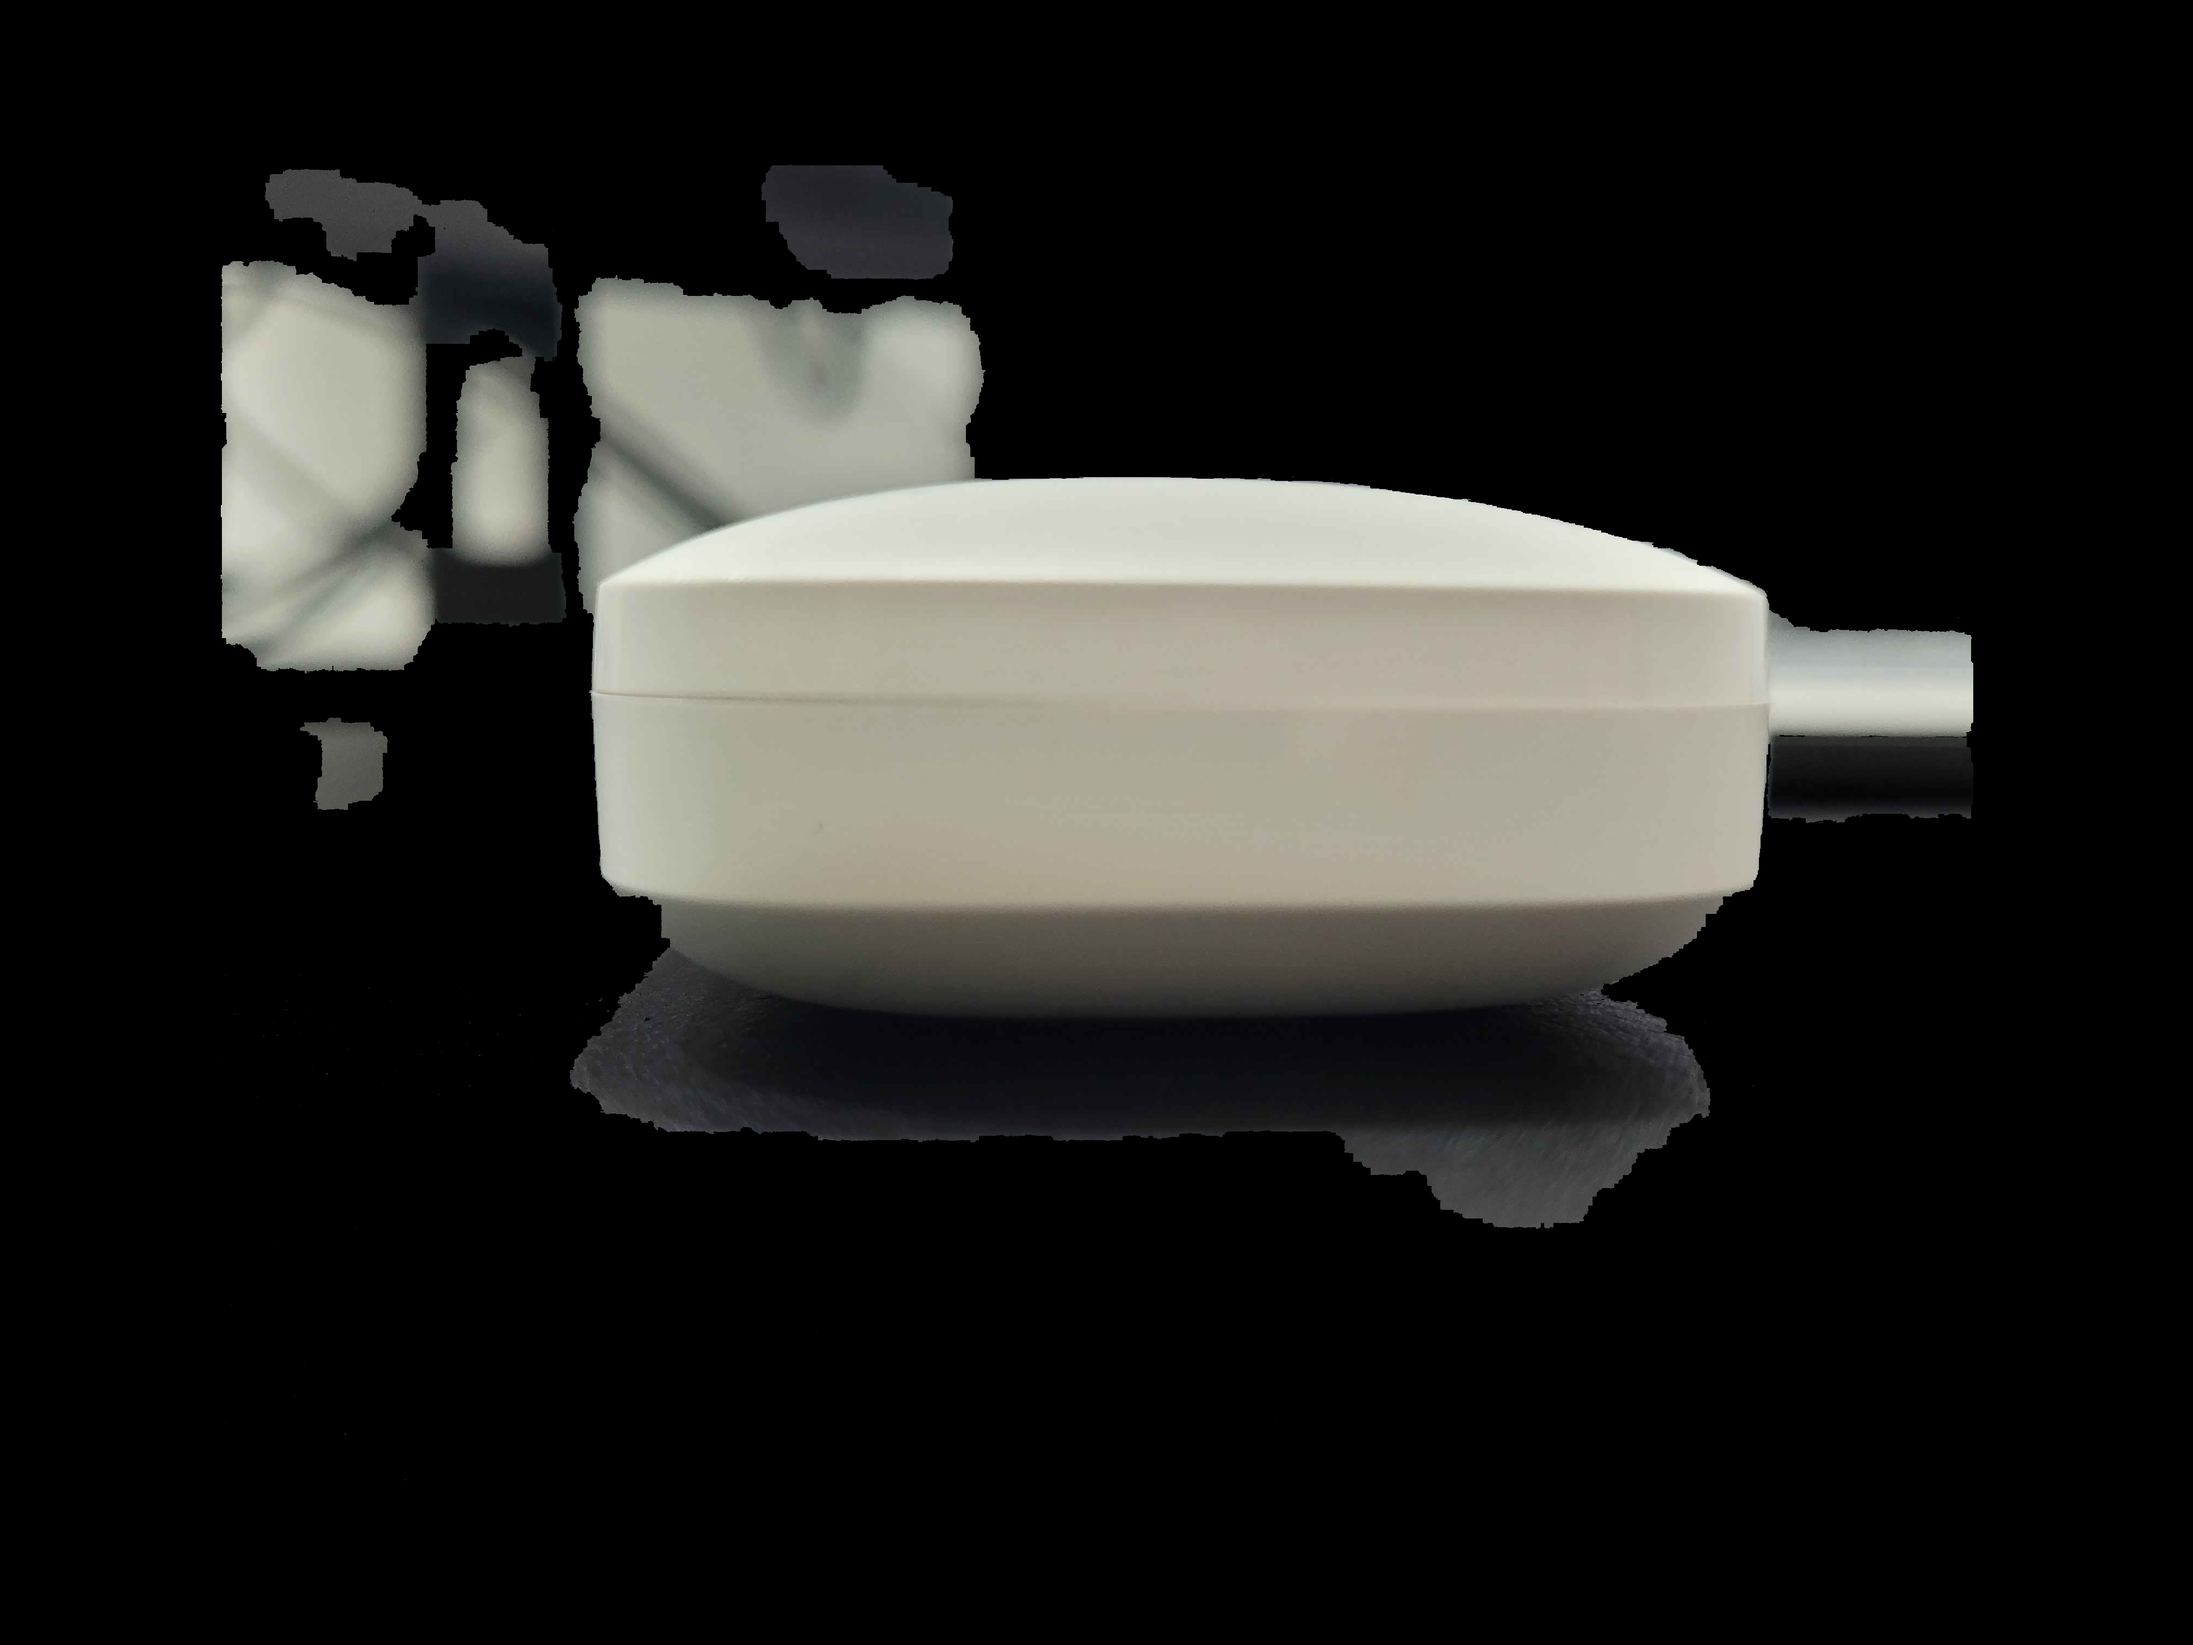
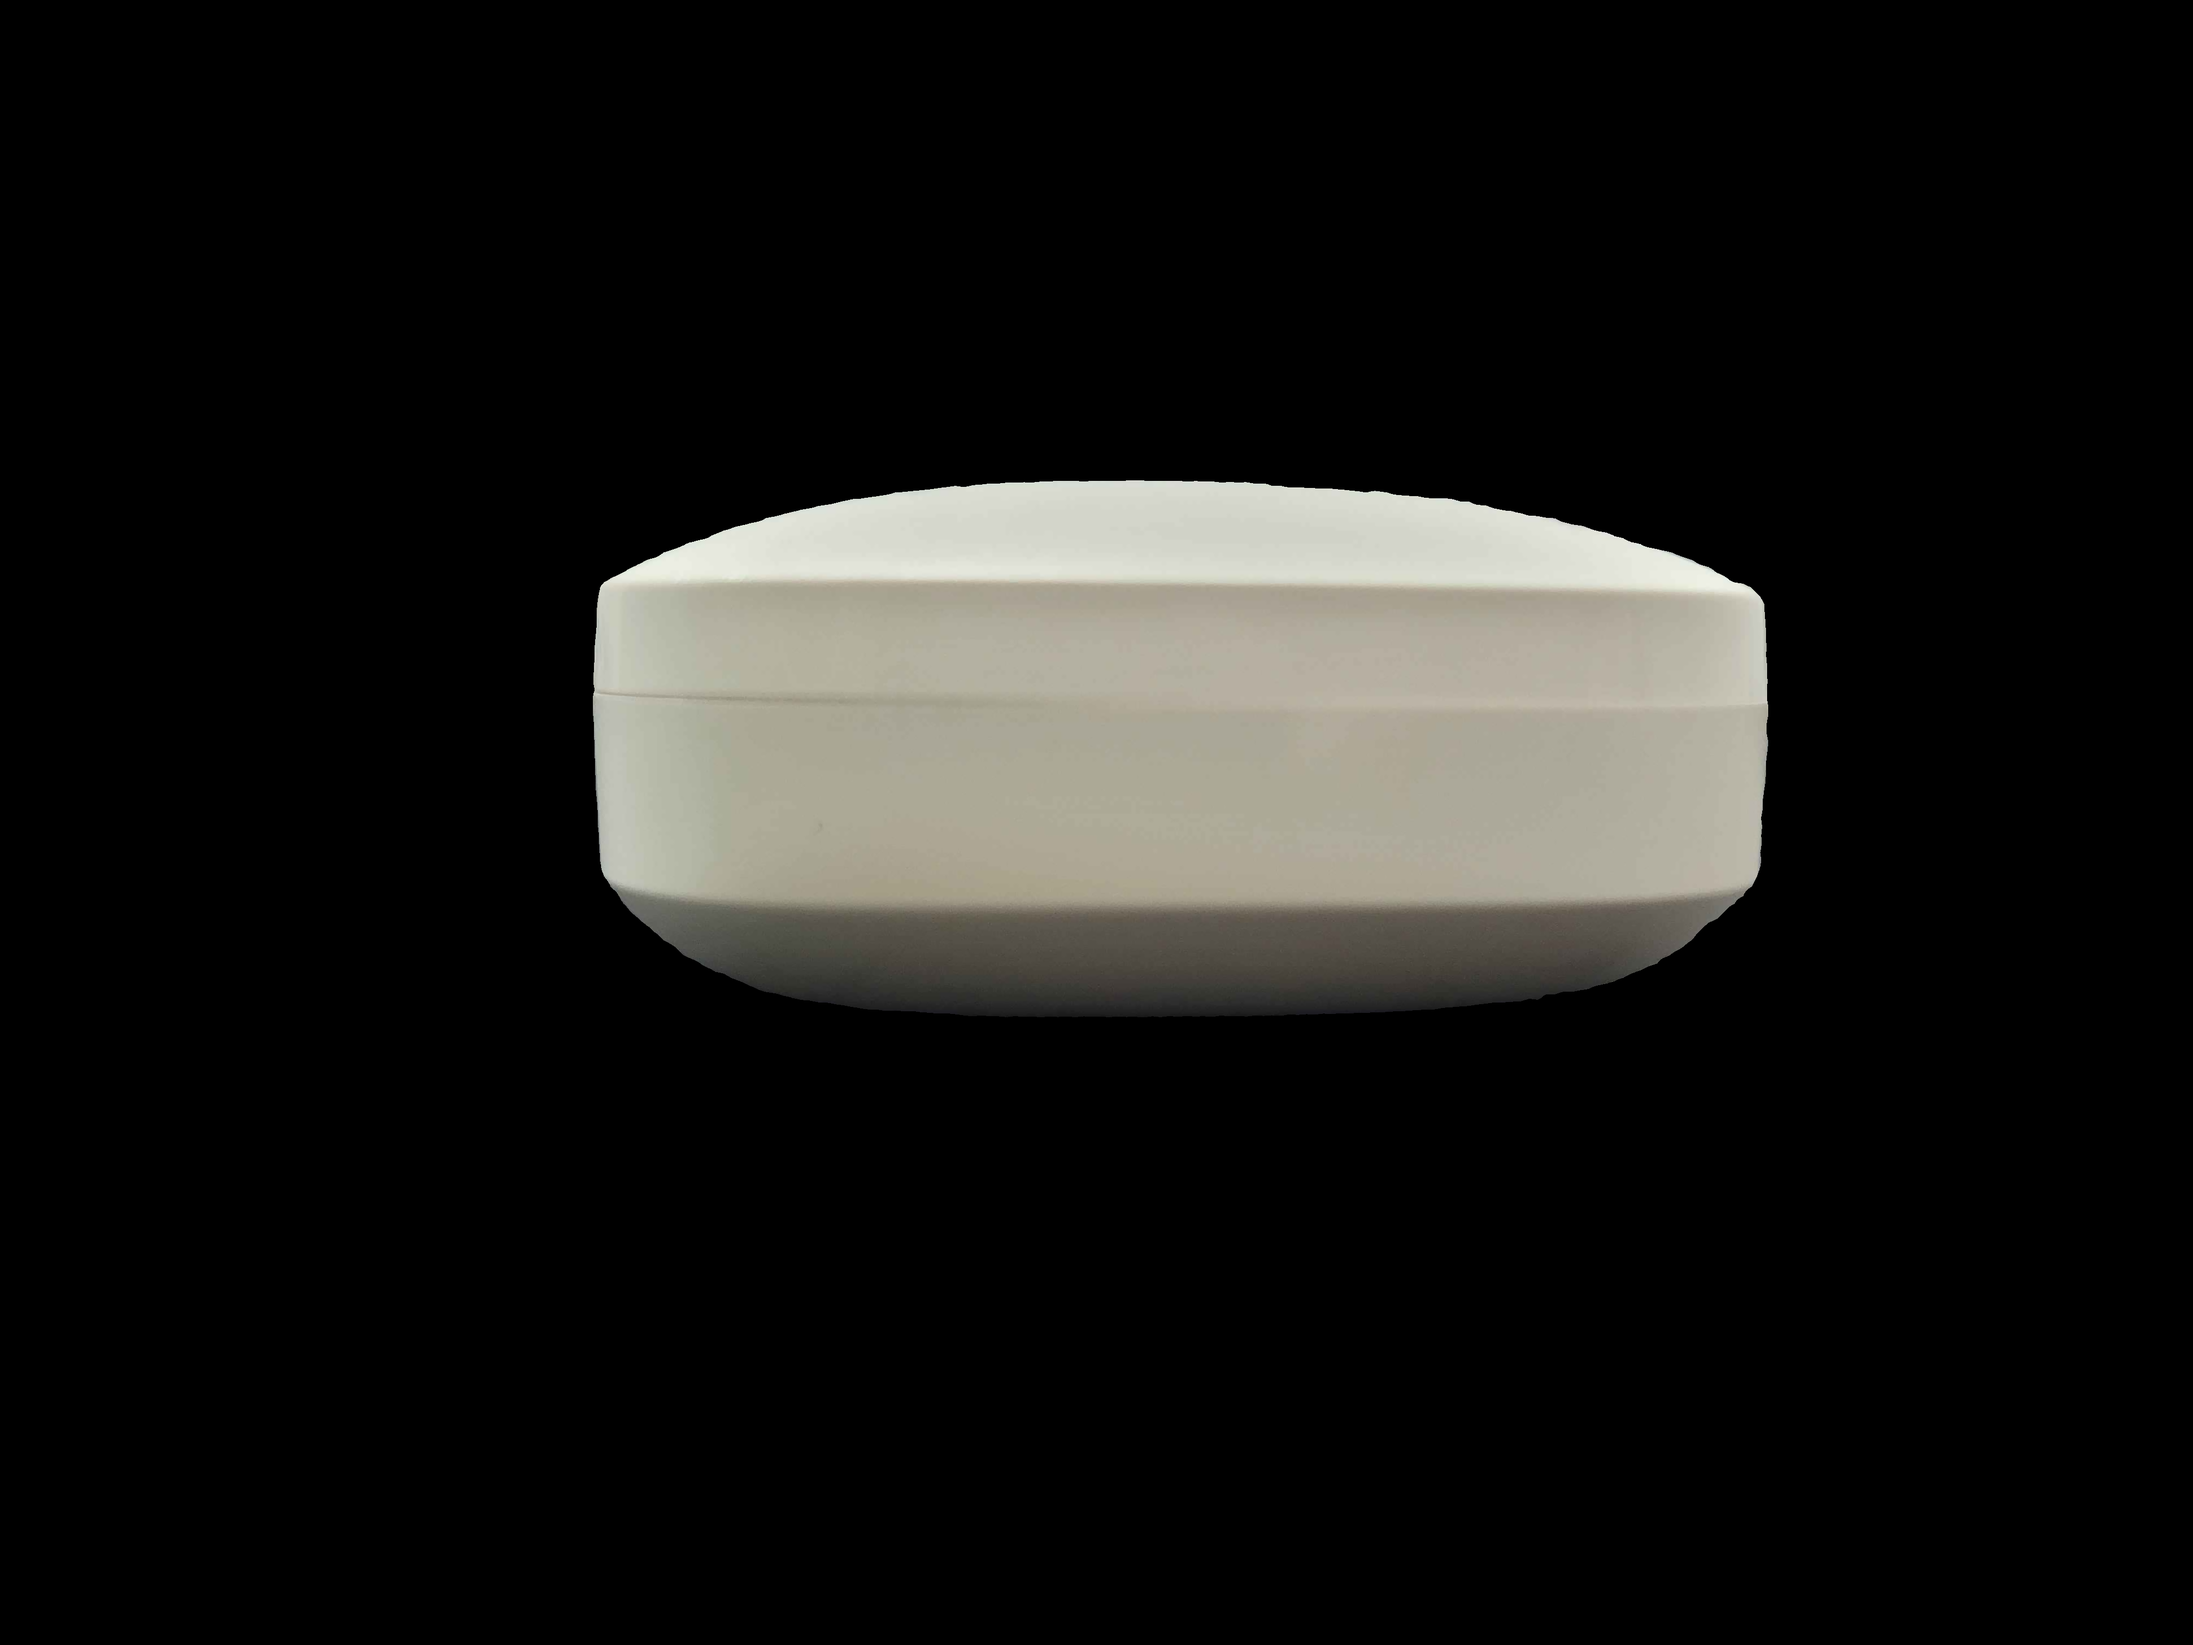
preprocessing mostly clean, shape detection kind clean but the 3d builder needs stuff

diff --git a/python/shape_detection.py b/python/shape_detection.py
@@ -1,7 +1,12 @@
 import cv2
+import numpy as np
 
 def detect_shapes(gray_img):
   
+  # Preenche pequenos buracos na imagem antes da detecção de contornos
+  filled_img = spot_filler(gray_img)
+  
+  #Detecta bordas
   edges = cv2.Canny(gray_img, 71, 149)
   
   contours,_ = cv2.findContours(
@@ -9,6 +14,12 @@ def detect_shapes(gray_img):
     cv2.RETR_EXTERNAL,#_EXTERNAL for straight up shapes, _TREE if the details are needed for the "height_map_to_normal_map" function
     cv2.CHAIN_APPROX_SIMPLE
   )
+  
+  #FAILSAFE
+  if not contours:  # Verifica se algum contorno foi detectado
+      print("Nenhum contorno encontrado.")
+      return []
+  #
   
   #if len(contours) == 0:
   #    return None
@@ -51,7 +62,7 @@ def texture_cutout(clean_img, mon_shape):
   mask = np.zeros((h, w), dtype=np.uint8)
 
   #Preencher os shapes detectados
-  cv2.drawContours(mask, shapes, -1, 255, thickness = cv2.FILLED)
+  cv2.drawContours(mask, mon_shape, -1, 255, thickness = cv2.FILLED)
 
   # Converte para RGBA
   rgba = cv2.cvtColor(clean_img, cv2.COLOR_RGB2RGBA)
@@ -68,3 +79,13 @@ def texture_cutout(clean_img, mon_shape):
   #
 
   return rgba
+
+def spot_filler(img):
+  
+   # Cria um elemento estruturante
+    kernel = np.ones((5, 5), np.uint8)  # Você pode ajustar o tamanho do kernel conforme necessário
+
+    # Aplica o fechamento morfológico
+    fill_img = cv2.morphologyEx(img, cv2.MORPH_CLOSE, kernel)
+    
+    return fill_img

diff --git a/python/preprocessing.py b/python/preprocessing.py
@@ -5,7 +5,7 @@ from PIL import Image
 
 
 
-def remove_background(img):
+def remove_background(img):#DEPRECATED
   h,w = img.shape[:2]
   
   mask = np.zeros((h,w), np.uint8)
@@ -45,20 +45,20 @@ def remove_background(img):
   return result
 
 #Will receive either a file path or an image array, and will return the preprocessed grayscale image and the cleaned RGB image without background. The cleaned RGB image can be used as a reference for albedo during volume inference.
-def preprocess_image(path):
+def preprocess_image(img):
   
-  img = cv2.imread(path)
+  #img = cv2.imread(path)
   
   # If a path was passed
-  if isinstance(input_data, str):
-    img = cv2.imread(input_data)
+  #if isinstance(input_data, str):
+  #  img = cv2.imread(input_data)
 
   # If an image array was passed
-  else:
-    img = input_data.copy()
+  #else:
+  #  img = input_data.copy()
       
   #Failsafe Line
-  assert img is not None, "file could not be read, check with os.path.exists()"
+  #assert img is not None, "file could not be read, check with os.path.exists()"
   
   #DEBUG
   cv2.namedWindow("Test Original", cv2.WINDOW_NORMAL)
@@ -71,7 +71,7 @@ def preprocess_image(path):
   img = cv2.cvtColor(img, cv2.COLOR_BGR2RGB)
   
   #Remove "Background"
-  img = remove_background(img)
+  #img = remove_background(img) DEPRECATED
   
   #DEBUG
   cv2.namedWindow("Test No Background", cv2.WINDOW_NORMAL)

diff --git a/python/segmentation_sam.py b/python/segmentation_sam.py
@@ -5,32 +5,39 @@ from ultralytics import SAM
 
 model = SAM("sam2_t.pt")
 
-def segment_object(image_path):
-
-    segmented_img, mask = segment_object(img_path)
-    
-    #FAILSAFE
-    if segmented_img is None:
-        print(f"Aviso: Segmentação falhou em {file_name}")
-        continue
+def segment_object(img):
     
     h, w = img.shape[:2]
 
     input_point = [[w // 2, h // 2]]
 
     results = model.predict(
-        source=image_path,
+        source=img,
         points=input_point,
         labels=[1]
     )
-
+    
+    #FAILSAFE
+    if not results or not results[0].masks.data:
+        print("Nenhuma máscara foi retornada.")
+        return None, None
+    #
+    
     mask = results[0].masks.data[0].cpu().numpy()
     mask = (mask * 255).astype(np.uint8)
 
     segmented = cv2.bitwise_and(img, img, mask=mask)
-
+    
+    #Mostrar o resultado na tela
+    res_plotted = results[0].plot()
+    plt.figure(figsize=(10, 10))
+    plt.imshow(cv2.cvtColor(res_plotted, cv2.COLOR_BGR2RGB))
+    plt.axis('off')
+    plt.show()
+    
     return segmented, mask
-  
+
+
 #SAM TEST   
 #Carregar o modelo SAM 2 
 #model = SAM("sam2_t.pt")

diff --git a/python/pipeline.py b/python/pipeline.py
@@ -47,7 +47,7 @@ def run_pipeline(monument_path, output_path):
           continue
         
         #segmentation_sam's function call
-        segmented_img, mask = segment_object(img_path)
+        segmented_img, segmt_mask = segment_object(img)
         
         #preprocess's function call
         gray, clean = preprocess_image(segmented_img)
@@ -55,8 +55,11 @@ def run_pipeline(monument_path, output_path):
         if albedo_ref is None:
             albedo_ref = clean
             gray_ref = gray
-            
+        
+        #Shape detection call
         shapes = detect_shapes(gray)
+        
+        #Volume inference call
         volumes = infer_volumes(shapes, file_name)
         all_volumes.extend(volumes)
       

diff --git a/python/mesh/trimesh_builder.py b/python/mesh/trimesh_builder.py
@@ -21,7 +21,7 @@ class TrimeshBuilder(BaseMeshBuilder):
     
     #DEBUG
     if self.debug:
-          os.makedirs(debug_dir, exist_ok=True)
+          os.makedirs(self.debug_dir, exist_ok=True)
     #
           
     for i, vlm in enumerate(volumes):
@@ -36,9 +36,12 @@ class TrimeshBuilder(BaseMeshBuilder):
       
       #DEBUG: export individual
       if self.debug:
-          debug_path = os.path.join(debug_dir, f"volume_{i}.ply")
+          debug_path = os.path.join(self.debug_dir, f"volume_{i}.ply")
           box.export(debug_path)
-    #
+          
+      if self.debug:
+        trimesh.Scene(meshes).show()
+      #
     
     combined = trimesh.util.concatenate(meshes)
 
